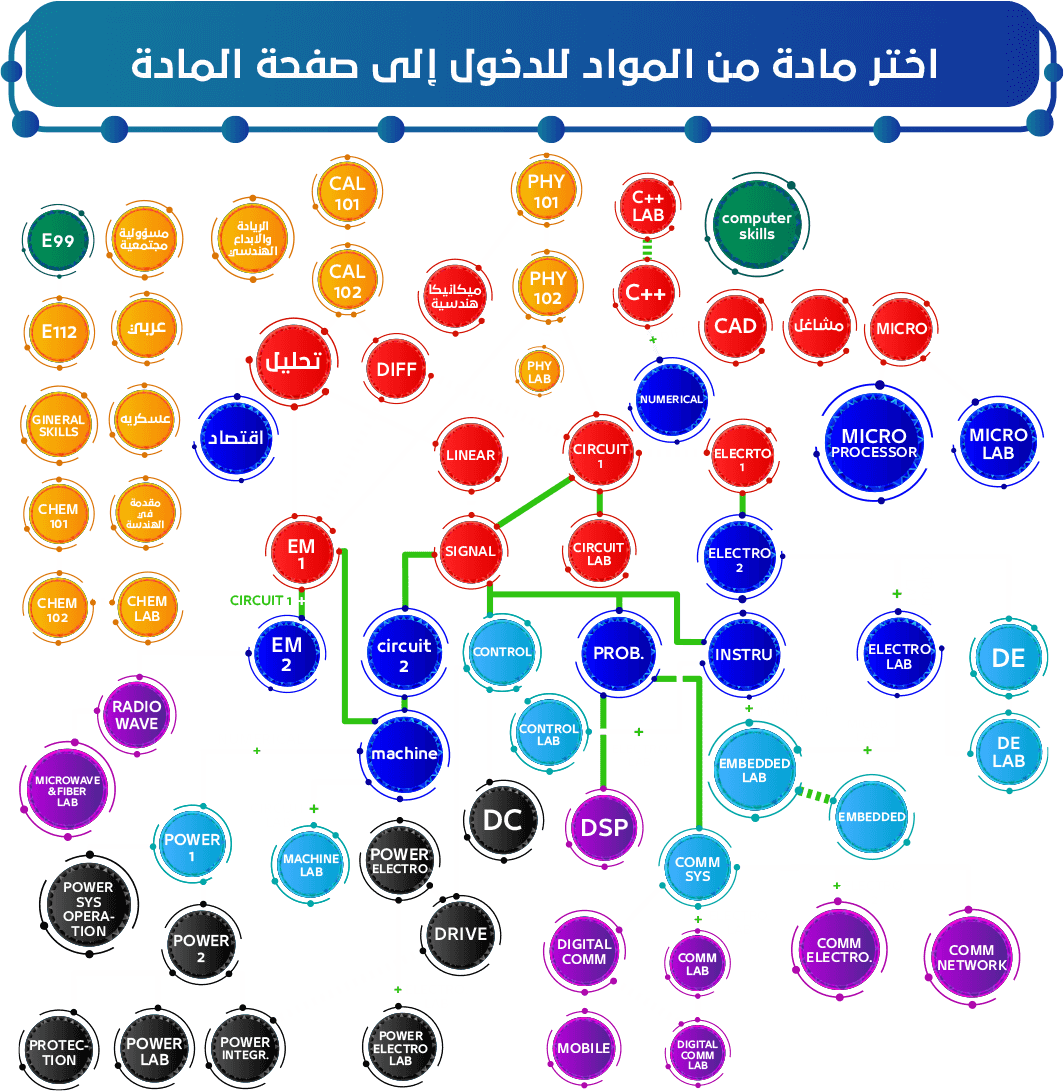
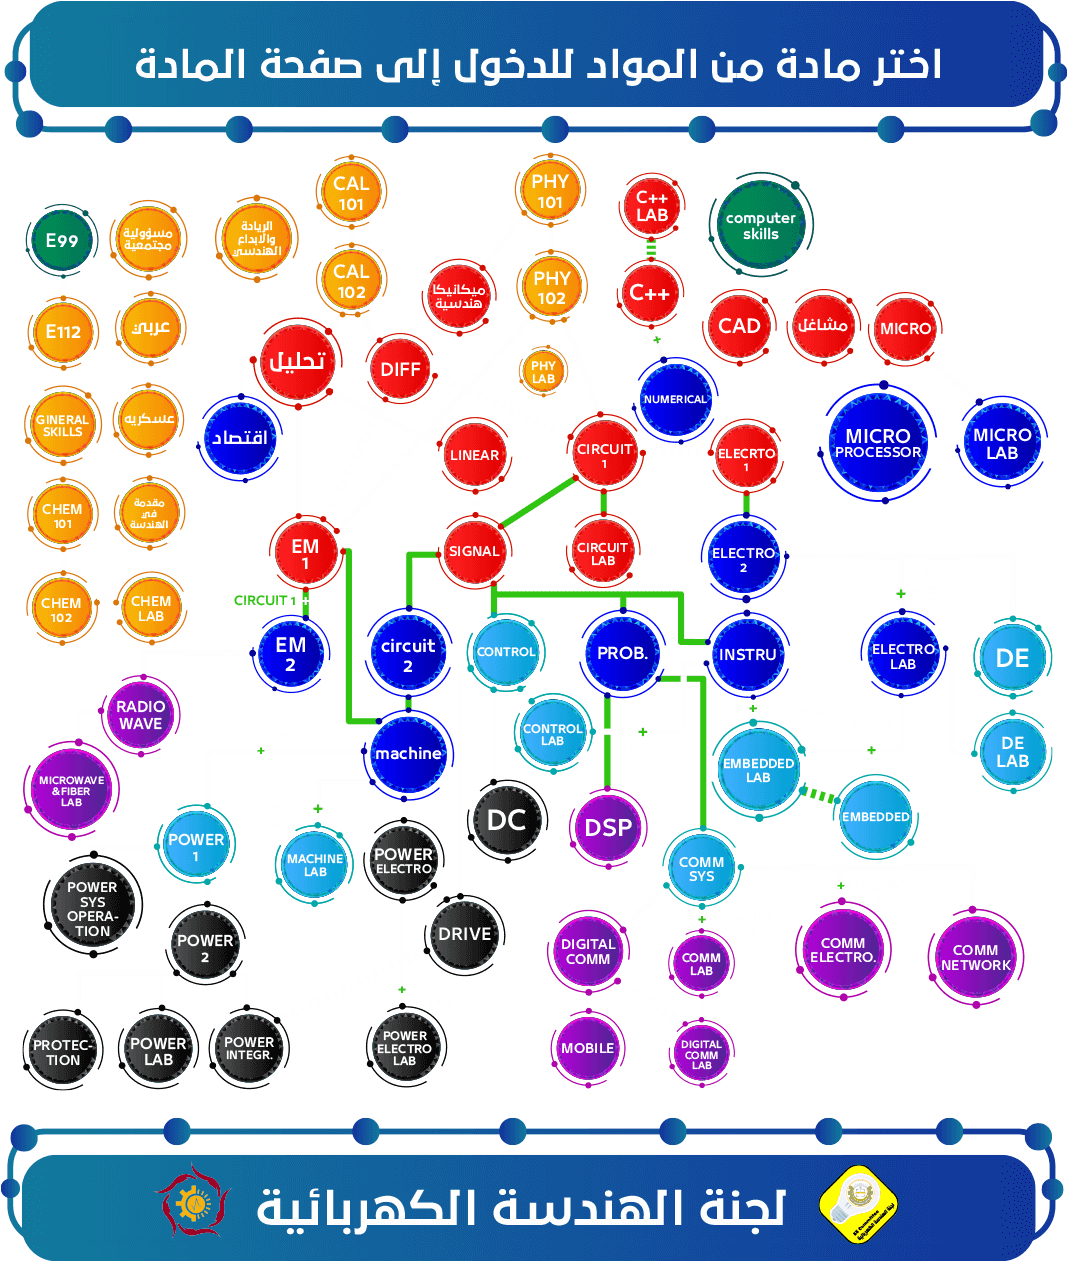
styling headers and bit change to plan image

diff --git a/src/screens/home/Calculator/index.tsx b/src/screens/home/Calculator/index.tsx
@@ -394,7 +394,7 @@ const CalculatorScreen = ({ navigation }: Props) => {
           <Pressable
             onPress={addSubject}
             style={{
-              backgroundColor: Colors.primary500,
+              backgroundColor: "#ffc107",
               borderRadius: moderateScale(20),
               paddingVertical: verticalScale(12),
               paddingHorizontal: horizontalScale(8),
@@ -416,7 +416,7 @@ const CalculatorScreen = ({ navigation }: Props) => {
           <Pressable
             onPress={deleteSubject}
             style={{
-              backgroundColor: "red",
+              backgroundColor: "#CA0B00",
               borderRadius: moderateScale(20),
               paddingVertical: verticalScale(12),
               paddingHorizontal: horizontalScale(8),
@@ -440,7 +440,7 @@ const CalculatorScreen = ({ navigation }: Props) => {
       <Pressable
         onPress={calculateRate}
         style={{
-          backgroundColor: "green",
+          backgroundColor: "#4BB543",
           borderRadius: moderateScale(20),
           paddingVertical: verticalScale(12),
           paddingHorizontal: horizontalScale(8),

diff --git a/src/screens/subjects/plan/index.tsx b/src/screens/subjects/plan/index.tsx
@@ -34,7 +34,7 @@ const PlanScreen = ({ navigation }: Props) => {
           <ImageMapper
             imgSource={require("@Assets/images/plan.webp")}
             imgWidth={screenWidth}
-            imgHeight={screenWidth * 0.97}
+            imgHeight={screenWidth * 1.08}
             imgMap={MAPPING}
             containerStyle={{
               flex: 1,
@@ -50,8 +50,8 @@ const PlanScreen = ({ navigation }: Props) => {
             resizeMode="contain"
             style={{
               width: screenWidth,
-              height: screenWidth * 0.18,
-              bottom: verticalScale(30),
+              height: screenWidth * 0.15,
+              bottom: verticalScale(20),
             }}
           />
         </ReactNativeZoomableView>

diff --git a/src/components/ui/CustomHeader/index.tsx b/src/components/ui/CustomHeader/index.tsx
@@ -26,8 +26,9 @@ const CustomHeader = ({ onPress, iconColor }: Props) => {
       <Image
         source={iconColor}
         style={{
-          width: horizontalScale(50),
-          height: verticalScale(50),
+          width: horizontalScale(40),
+          height: verticalScale(40),
+          marginTop: verticalScale(4),
           resizeMode: "contain",
         }}
       />
